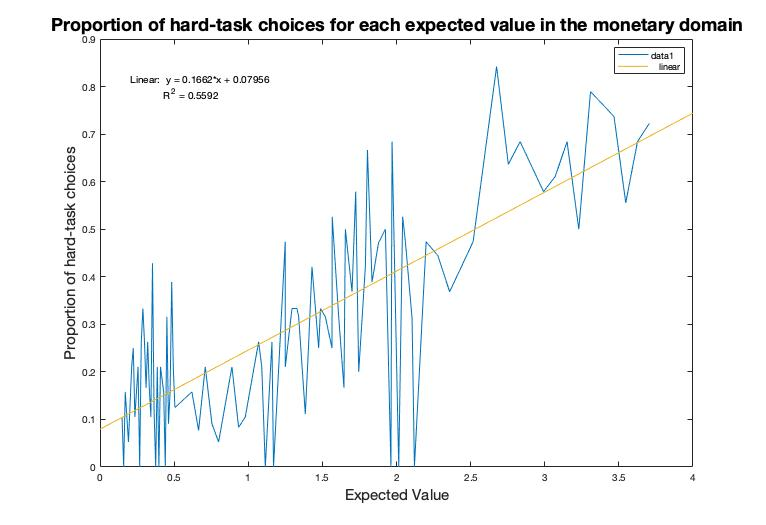
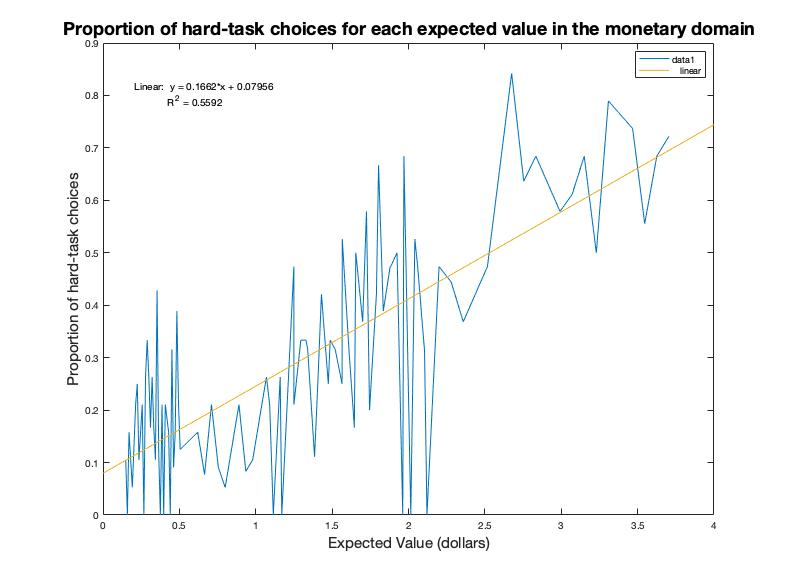
updated ev plots

diff --git a/convertdata.m b/convertdata.m
@@ -386,7 +386,7 @@ ev_probs_monetary = sortrows(ev_probs_monetary);
 figure;
 plot(ev_probs_monetary(:,1),ev_probs_monetary(:,2))
 title('Proportion of hard-task choices for each expected value in the monetary domain', 'FontSize', fontSize1)
-xlabel('Expected Value', 'FontSize', fontSize2)
+xlabel('Expected Value (dollars)', 'FontSize', fontSize2)
 ylabel('Proportion of hard-task choices', 'FontSize', fontSize2);
 
 % social
@@ -404,7 +404,7 @@ ev_probs_social = sortrows(ev_probs_social);
 figure;
 plot(ev_probs_social(:,1),ev_probs_social(:,2))
 title('Proportion of hard-task choices for each expected value in the social domain', 'FontSize', fontSize1)
-xlabel('Expected Value', 'FontSize', fontSize2)
+xlabel('Expected Value (minutes of social media time)', 'FontSize', fontSize2)
 ylabel('Proportion of hard-task choices', 'FontSize', fontSize2);
 
 %% plotting prop of hard choices for each reward magnitude, non-binned
